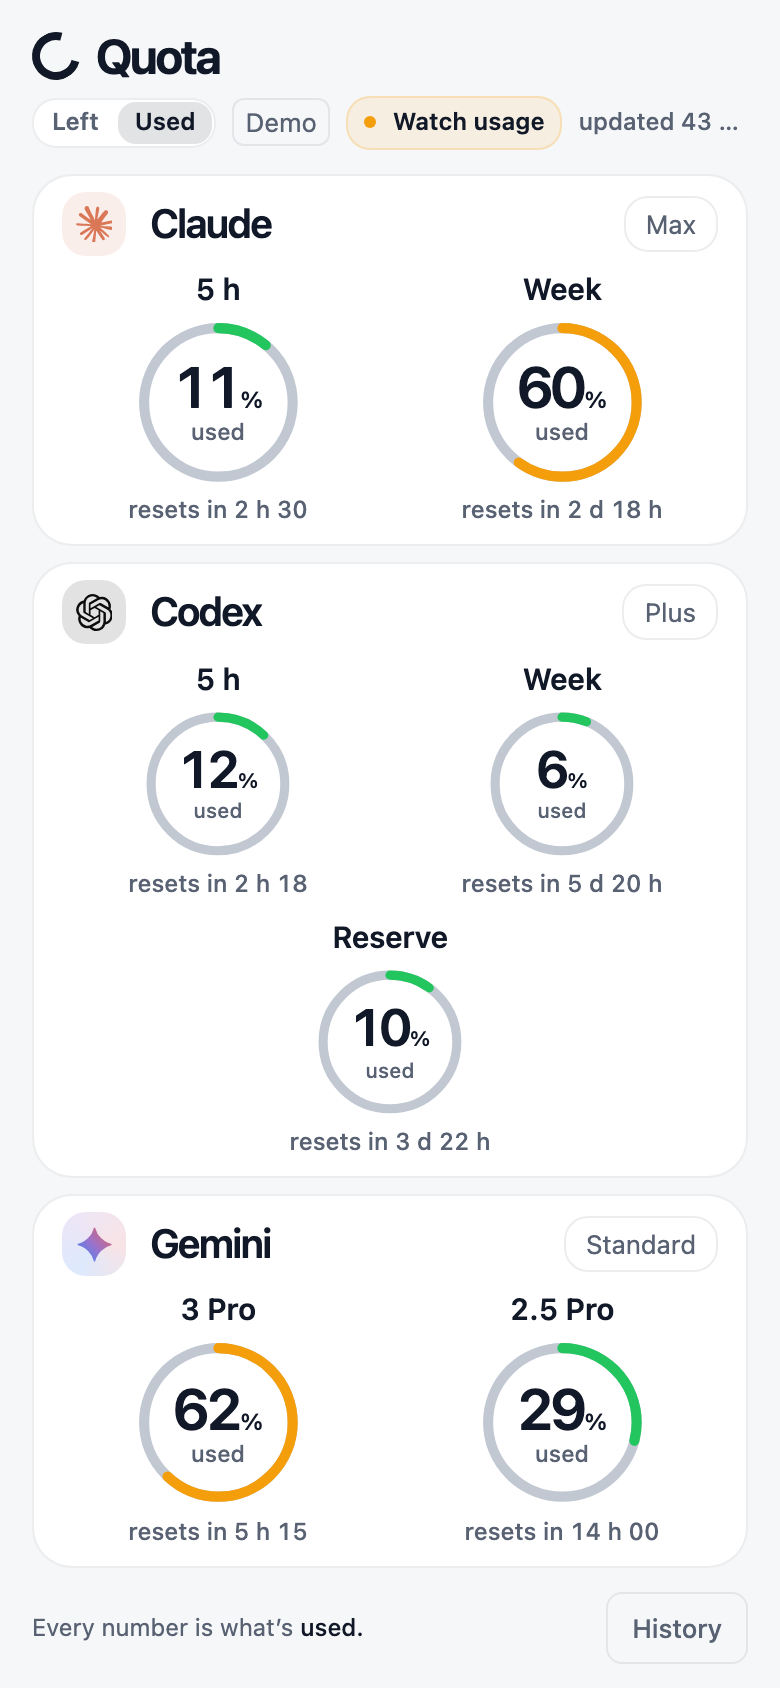
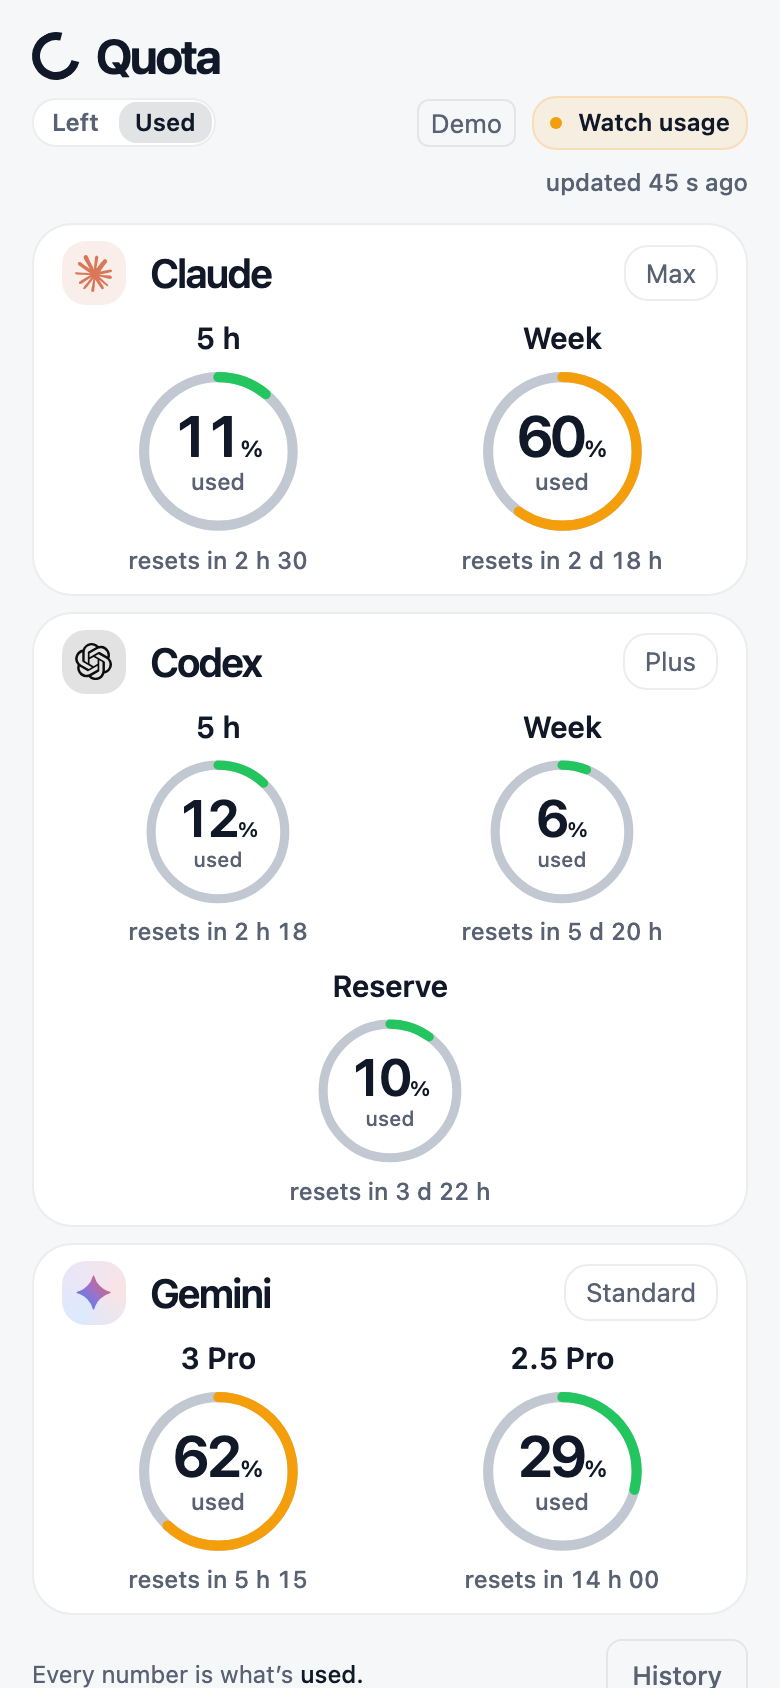
fix(collector): an unusable Gemini credential draws no card at all
Review of the Gemini branch, one Codex pass on the diff and one Gemini vision
pass on the captures, turned up four things worth changing.

The collector promised in `collect()` that a provider which is not set up is
left out of the payload rather than reported empty, and then broke that promise
everywhere except the two paths it tested. A corrupt or unreadable
`oauth_creds.json`, a refresh token Google refuses, a 401/403 from Code Assist,
and a response carrying no usable bucket all fell through to the generic handler
and pushed `windows: []` with an error — an empty Gemini card, which is the one
outcome the docstring rules out. They are all now `GeminiUnavailable`, so the
provider is simply absent. A timeout or a 5xx still earns an error card: that is
a real failure of a provider the user *has* paired, and it reads the same as it
does for Claude and Codex.

`retrieveUserQuota` is also called properly now. Code Assist meters quota per
project, and the project is what `loadCodeAssist` hands back; the call sent `{}`
and would have been refused for any account that has one. `loadCodeAssist` is
called once and reused for both the tier and the project instead of twice.

Bucket parsing no longer trusts the wire: `remainingFraction` rejects `bool`
(`isinstance(True, int)` is true) and non-finite floats, and is clamped to
[0, 1] so a ring cannot exceed either end. Percentages carry one decimal, as
Claude's and Codex's already did.
[…]

diff --git a/web/style.css b/web/style.css
@@ -138,11 +138,13 @@ h1 { font-size: clamp(1.5rem, 2.3vw, 2rem); line-height: 1; letter-spacing: -.05
   .app { padding: max(16px, env(safe-area-inset-top)) max(16px, env(safe-area-inset-right)) max(12px, env(safe-area-inset-bottom)) max(16px, env(safe-area-inset-left)); }
   .topbar { gap: 8px 12px; padding-bottom: 12px; flex-wrap: wrap; }
   .brand { gap: 8px; }
-  .status-group { flex: 1 1 100%; min-width: 0; gap: 8px; justify-content: flex-end; flex-wrap: nowrap; }
+  /* Wrap rather than clip: "updated 42 s ago" takes its own line when the pills fill the
+     first one. An ellipsised freshness label is the one label that must never be guessed. */
+  .status-group { flex: 1 1 100%; min-width: 0; gap: 8px; justify-content: flex-end; flex-wrap: wrap; }
   .status-pill { padding: 4px 8px; font-size: .75rem; white-space: nowrap; }
   .segmented { margin-right: auto; padding: 1px; }
   .segmented button { padding: 3px 8px; font-size: .75rem; }
-  .updated { font-size: .75rem; white-space: nowrap; overflow: hidden; text-overflow: ellipsis; }
+  .updated { font-size: .75rem; white-space: nowrap; }
   .providers { grid-template-columns: minmax(0, 1fr); gap: 12px; }
   .provider { padding: 12px 16px; }
   .provider-header { min-height: 32px; }

diff --git a/collector/quota_collector.py b/collector/quota_collector.py
@@ -12,6 +12,7 @@ from __future__ import annotations
 
 import base64
 import json
+import math
 import os
 import re
 import secrets
@@ -276,7 +277,7 @@ def gemini_oauth_clients() -> list[tuple[str, str]]:
         return [(env_id, env_secret)]
 
     ids: list[str] = []
-    secrets: list[str] = []
+    client_secrets: list[str] = []
     scanned = 0
     for root in gemini_cli_roots():
         for path in root.rglob("*.js"):
@@ -290,12 +291,14 @@ def gemini_oauth_clients() -> list[tuple[str, str]]:
             except OSError:
                 continue
             ids.extend(m for m in GOOGLE_CLIENT_ID_RE.findall(text) if m not in ids)
-            secrets.extend(m for m in GOOGLE_CLIENT_SECRET_RE.findall(text) if m not in secrets)
-        if ids and secrets:
+            client_secrets.extend(
+                m for m in GOOGLE_CLIENT_SECRET_RE.findall(text) if m not in client_secrets
+            )
+        if ids and client_secrets:
             break
-    if not ids or not secrets:
+    if not ids or not client_secrets:
         raise GeminiUnavailable("Gemini CLI OAuth client not found")
-    return [(i, s) for i in ids for s in secrets]
+    return [(i, s) for i in ids for s in client_secrets]
 
 
 def gemini_access_token(refresh_token: str) -> str:
@@ -323,26 +326,49 @@ def gemini_access_token(refresh_token: str) -> str:
         if token:
             return token
         last = "no access_token in the response"
-    raise RuntimeError(f"token refresh failed: {last}")
+    # Every candidate was refused: the CLI credential is revoked or expired, which is the
+    # same thing to us as never having signed in. A transient network failure is different
+    # — urlopen raises URLError straight out of the loop and still earns an error card.
+    raise GeminiUnavailable(f"token refresh refused ({last})")
 
 
-def code_assist(endpoint: str, access_token: str) -> Any:
-    return post_json(
-        f"{CODE_ASSIST_HOST}/v1internal:{endpoint}",
-        {"Authorization": f"Bearer {access_token}", "Content-Type": "application/json"},
-        b"{}",
-    )
+def code_assist(endpoint: str, access_token: str, body: dict[str, Any] | None = None) -> Any:
+    """A Code Assist call. 401/403 means this account has no Code Assist: skip, don't shout."""
+    try:
+        return post_json(
+            f"{CODE_ASSIST_HOST}/v1internal:{endpoint}",
+            {"Authorization": f"Bearer {access_token}", "Content-Type": "application/json"},
+            json.dumps(body or {}).encode(),
+        )
+    except urllib.error.HTTPError as error:
+        if error.code in (401, 403):
+            raise GeminiUnavailable(f"Code Assist refused the credential (HTTP {error.code})") from error
+        raise
 
 
 GEMINI_TIER_NAMES = {"FREE": "Free", "STANDARD": "Standard", "ENTERPRISE": "Enterprise"}
 
 
-def gemini_plan(access_token: str) -> str | None:
-    """`currentTier.id` from loadCodeAssist. Best effort: a tier is not worth a red card."""
+def gemini_onboarding(access_token: str) -> dict[str, Any]:
+    """loadCodeAssist, called once: it carries both the tier and the project id.
+
+    Best effort — a malformed answer costs a plan label and a project hint, not the run.
+    A 401/403 is not swallowed here: it means the account has no Code Assist at all, and
+    `collect_gemini` must skip the provider rather than draw an empty card.
+    """
     try:
-        tier = (code_assist("loadCodeAssist", access_token).get("currentTier") or {}).get("id")
+        data = code_assist("loadCodeAssist", access_token)
+    except GeminiUnavailable:
+        raise
     except Exception:  # noqa: BLE001 - the quota buckets are the payload that matters
-        return None
+        return {}
+    return data if isinstance(data, dict) else {}
+
+
+def gemini_plan(onboarding: dict[str, Any]) -> str | None:
+    """`currentTier.id` from loadCodeAssist. Best effort: a tier is not worth a red card."""
+    tier_block = onboarding.get("currentTier")
+    tier = tier_block.get("id") if isinstance(tier_block, dict) else None
     if not isinstance(tier, str) or not tier:
         return None
     return GEMINI_TIER_NAMES.get(tier.upper(), tier.replace("_", " ").title())
@@ -373,33 +399,56 @@ def collect_gemini() -> dict[str, Any]:
         credentials = json.loads(GEMINI_CREDS_PATH.read_text())
     except FileNotFoundError as error:
         raise GeminiUnavailable("Gemini CLI not signed in") from error
+    except OSError as error:  # unreadable: a credential we cannot use is one we do not have
+        raise GeminiUnavailable(f"Gemini credential unreadable ({error.strerror})") from error
+    except json.JSONDecodeError as error:
+        raise GeminiUnavailable("Gemini credential is not valid JSON") from error
+    if not isinstance(credentials, dict):
+        raise GeminiUnavailable("Gemini credential is not a JSON object")
     refresh_token = credentials.get("refresh_token")
-    if not refresh_token:
+    if not isinstance(refresh_token, str) or not refresh_token:
         raise GeminiUnavailable("no refresh_token in the Gemini credential")
 
+    # The stored access_token is deliberately ignored: it is minutes-lived, and writing a
+    # refreshed one back would race the Gemini CLI for its own file. One refresh per run.
     access_token = gemini_access_token(refresh_token)
-    buckets = code_assist("retrieveUserQuota", access_token).get("buckets") or []
+    onboarding = gemini_onboarding(access_token)
+    # Code Assist meters quota per project; `retrieveUserQuota` wants the one loadCodeAssist
+    # just handed back. Sending none is only right for an account that has no project.
+    project = onboarding.get("cloudaicompanionProject")
+    request = {"cloudaicompanionProject": project} if isinstance(project, str) and project else {}
+    payload = code_assist("retrieveUserQuota", access_token, request)
+    buckets = payload.get("buckets") if isinstance(payload, dict) else None
 
     windows = []
-    for bucket in buckets:
+    for bucket in buckets or []:
         if not isinstance(bucket, dict):
             continue
         fraction = bucket.get("remainingFraction")
-        if not isinstance(fraction, (int, float)):
+        # `isinstance(True, int)` is True, and NaN survives every comparison: exclude both.
+        if isinstance(fraction, bool) or not isinstance(fraction, (int, float)):
             continue
+        fraction = float(fraction)
+        if not math.isfinite(fraction):
+            continue
+        fraction = min(1.0, max(0.0, fraction))  # a ring cannot go past either end
         model_id = str(bucket.get("modelId") or "quota")
         windows.append(
             {
                 "id": gemini_window_id(model_id),
                 "label": gemini_window_label(model_id),
-                "percent": round((1 - float(fraction)) * 100),
+                # One decimal, like Claude and Codex: the clients round for display.
+                "percent": round((1 - fraction) * 100, 1),
                 "resets_at": normalize_iso(bucket.get("resetTime")),
             }
         )
     # Most consumed first: that bucket is the headline every one-ring surface shows.
     windows.sort(key=lambda w: -w["percent"])
+    if not windows:
+        # A card with no ring is worse than no card: the docstring on `collect` is the rule.
+        raise GeminiUnavailable("Code Assist reported no quota bucket")
     return {
-        "plan": gemini_plan(access_token),
+        "plan": gemini_plan(onboarding),
         "windows": windows[:GEMINI_MAX_WINDOWS],
         "extra": {"buckets": len(windows)},
     }
@@ -432,8 +481,10 @@ def collect() -> dict[str, Any]:
     for name, collector in (("claude", collect_claude), ("codex", collect_codex), ("gemini", collect_gemini)):
         try:
             providers[name] = collector()
-        except GeminiUnavailable as reason:
-            log(f"{name}: skipped ({reason})")
+        except GeminiUnavailable:
+            # Never set up on this Mac: no card, and no line in a log that runs every
+            # few minutes forever. `summary()` already says which providers were read.
+            pass
         except Exception as error:  # noqa: BLE001 - a partial report beats no report
             reason = describe(error)
             log(f"{name}: {reason}")

diff --git a/collector/test_quota_collector.py b/collector/test_quota_collector.py
@@ -10,6 +10,7 @@ Stdlib only, like the collector itself. Nothing here touches the network, the ke
 import json
 import sys
 import unittest
+import urllib.error
 from pathlib import Path
 from unittest import mock
 
@@ -34,15 +35,25 @@ RETRIEVE_USER_QUOTA = {
     ]
 }
 
-LOAD_CODE_ASSIST = {"currentTier": {"id": "STANDARD", "name": "Code Assist Standard"}}
+LOAD_CODE_ASSIST = {
+    "currentTier": {"id": "STANDARD", "name": "Code Assist Standard"},
+    "cloudaicompanionProject": "projects/quota-demo",
+}
+
+QUOTA_REQUESTS = []
 
 
-def fake_code_assist(endpoint, _access_token):
+def fake_code_assist(endpoint, _access_token, body=None):
     if endpoint == "retrieveUserQuota":
+        QUOTA_REQUESTS.append(body)
         return RETRIEVE_USER_QUOTA
     if endpoint == "loadCodeAssist":
         return LOAD_CODE_ASSIST
     raise AssertionError(f"unexpected endpoint {endpoint}")
+
+
+def http_error(code):
+    return urllib.error.HTTPError("https://cloudcode-pa.googleapis.com", code, "no", None, None)
 
 
 class GeminiLabels(unittest.TestCase):
@@ -58,11 +69,14 @@ class GeminiLabels(unittest.TestCase):
 
 
 class GeminiCollection(unittest.TestCase):
-    def collect(self, credentials=None):
+    def setUp(self):
+        QUOTA_REQUESTS.clear()
+
+    def collect(self, credentials=None, code_assist=fake_code_assist):
         credentials = credentials if credentials is not None else {"refresh_token": "not-a-real-token"}
         with mock.patch.object(qc.Path, "read_text", return_value=json.dumps(credentials)), \
              mock.patch.object(qc, "gemini_access_token", return_value="fake-access-token"), \
-             mock.patch.object(qc, "code_assist", side_effect=fake_code_assist):
+             mock.patch.object(qc, "code_assist", side_effect=code_assist):
             return qc.collect_gemini()
 
     def test_headline_is_the_most_consumed_bucket(self):
@@ -71,11 +85,13 @@ class GeminiCollection(unittest.TestCase):
         self.assertEqual(provider["windows"][0]["label"], "3 Pro")
         # 1 - 0.38 = 62 % used.
         self.assertEqual(provider["windows"][0]["percent"], 62)
+        self.assertNotIn("gemini", provider["windows"][0]["label"].lower())
         self.assertEqual(provider["windows"][0]["resets_at"], "2026-09-09T23:15:00Z")
 
     def test_secondary_windows_follow_in_descending_use(self):
         windows = self.collect()["windows"]
-        self.assertEqual([w["percent"] for w in windows], [62, 29, 10])
+        # One decimal like the other two providers: 1 - 0.715 is 28.5, not 29.
+        self.assertEqual([w["percent"] for w in windows], [62, 28.5, 10])
         self.assertEqual([w["id"] for w in windows],
                          ["gemini-3-pro", "gemini-2-5-pro", "gemini-3-flash"])
 
@@ -94,6 +110,71 @@ class GeminiCollection(unittest.TestCase):
             with self.assertRaises(qc.GeminiUnavailable):
                 qc.collect_gemini()
 
+    def test_unreadable_or_corrupt_credential_is_a_skip_not_an_error(self):
+        for failure in (PermissionError(13, "Permission denied"), OSError(5, "I/O error")):
+            with self.subTest(failure=failure):
+                with mock.patch.object(qc.Path, "read_text", side_effect=failure):
+                    with self.assertRaises(qc.GeminiUnavailable):
+                        qc.collect_gemini()
+        with mock.patch.object(qc.Path, "read_text", return_value="{ not json"):
+            with self.assertRaises(qc.GeminiUnavailable):
+                qc.collect_gemini()
+
+    def test_an_account_without_code_assist_is_a_skip_not_an_error(self):
+        # The translation lives inside `code_assist`, so the fake goes one layer lower.
+        for code in (401, 403):
+            with self.subTest(code=code):
+                with mock.patch.object(qc, "post_json", side_effect=http_error(code)):
+                    with self.assertRaises(qc.GeminiUnavailable):
+                        qc.code_assist("retrieveUserQuota", "fake-access-token")
+
+    def test_a_code_assist_server_error_is_a_real_failure(self):
+        with mock.patch.object(qc, "post_json", side_effect=http_error(500)):
+            with self.assertRaises(urllib.error.HTTPError):
+                qc.code_assist("retrieveUserQuota", "fake-access-token")
+
+    def test_a_refused_refresh_is_a_skip_not_an_error(self):
+        with mock.patch.object(qc, "gemini_oauth_clients", return_value=[("id", "secret")]), \
+             mock.patch.object(qc, "post_json", side_effect=http_error(400)):
+            with self.assertRaises(qc.GeminiUnavailable):
+                qc.gemini_access_token("stale-refresh-token")
+
+    def test_no_bucket_at_all_draws_no_card(self):
+        with self.assertRaises(qc.GeminiUnavailable):
+            self.collect(code_assist=lambda endpoint, token, body=None:
+                         {"buckets": []} if endpoint == "retrieveUserQuota" else LOAD_CODE_ASSIST)
+
+    def test_a_non_object_quota_response_draws_no_card(self):
+        with self.assertRaises(qc.GeminiUnavailable):
+            self.collect(code_assist=lambda endpoint, token, body=None:
+                         None if endpoint == "retrieveUserQuota" else LOAD_CODE_ASSIST)
+
+    def test_the_project_from_load_code_assist_is_sent_with_the_quota_request(self):
+        self.collect()
+        self.assertEqual(QUOTA_REQUESTS, [{"cloudaicompanionProject": "projects/quota-demo"}])
+
+    def test_an_account_with_no_project_still_asks_for_its_quota(self):
+        def without_project(endpoint, token, body=None):
+            if endpoint == "loadCodeAssist":
+                return {"currentTier": {"id": "FREE"}}
+            QUOTA_REQUESTS.append(body)
+            return RETRIEVE_USER_QUOTA
+        self.assertEqual(self.collect(code_assist=without_project)["plan"], "Free")
+        self.assertEqual(QUOTA_REQUESTS, [{}])
+
+    def test_out_of_range_and_non_numeric_fractions_never_leave_the_ring(self):
+        buckets = {"buckets": [
+            {"modelId": "gemini-3-pro", "remainingFraction": -0.2},
+            {"modelId": "gemini-3-flash", "remainingFraction": 1.4},
+            {"modelId": "gemini-2.5-pro", "remainingFraction": True},
+            {"modelId": "gemini-2.5-flash", "remainingFraction": float("nan")},
+            {"modelId": "gemini-legacy", "remainingFraction": "0.5"},
+        ]}
+        windows = self.collect(code_assist=lambda endpoint, token, body=None:
+                               buckets if endpoint == "retrieveUserQuota" else LOAD_CODE_ASSIST)["windows"]
+        self.assertEqual([w["id"] for w in windows], ["gemini-3-pro", "gemini-3-flash"])
+        self.assertEqual([w["percent"] for w in windows], [100, 0])
+
 
 class CollectSkipsGemini(unittest.TestCase):
     def test_provider_absent_from_the_payload_when_gemini_is_not_set_up(self):
@@ -104,10 +185,10 @@ class CollectSkipsGemini(unittest.TestCase):
             snapshot = qc.collect()
         self.assertEqual(sorted(snapshot["providers"]), ["claude", "codex"])
 
-    def test_a_real_gemini_failure_still_reports_an_error_card(self):
+    def test_a_transient_gemini_failure_still_reports_an_error_card(self):
         with mock.patch.object(qc, "collect_claude", return_value={"plan": None, "windows": [], "extra": {}}), \
              mock.patch.object(qc, "collect_codex", return_value={"plan": None, "windows": [], "extra": {}}), \
-             mock.patch.object(qc, "collect_gemini", side_effect=RuntimeError("token refresh failed: HTTP 400")), \
+             mock.patch.object(qc, "collect_gemini", side_effect=TimeoutError("the read timed out")), \
              mock.patch.object(qc, "log"):
             snapshot = qc.collect()
         self.assertIn("gemini", snapshot["providers"])

diff --git a/docs/brand/NOTICE.md b/docs/brand/NOTICE.md
@@ -32,5 +32,8 @@ Codex has no hue on purpose: OpenAI's current brand is monochrome (the legacy Ch
 `#10A37F` was retired in the 2025 rebrand), and pure black or pure white is unreadable on
 Quota's own surfaces, so it takes the near-neutral of the theme it sits on.
 
-`gemini.svg` is vendored in its colour form for provenance; the clients draw its single path
-with the gradient above, which is the same mark under the same palette.
+`gemini.svg` is vendored in the colour form it was published in — a blue body under Google's
+four-colour gradients (`#08B962`, `#F94543`, `#FABC12`) — and is kept only as provenance for
+the path. The clients redraw that same single path under the blue → violet → pink sweep in the
+table above: the same geometry, a different palette. Do not read the vendored file's stops as
+the tint to use.
